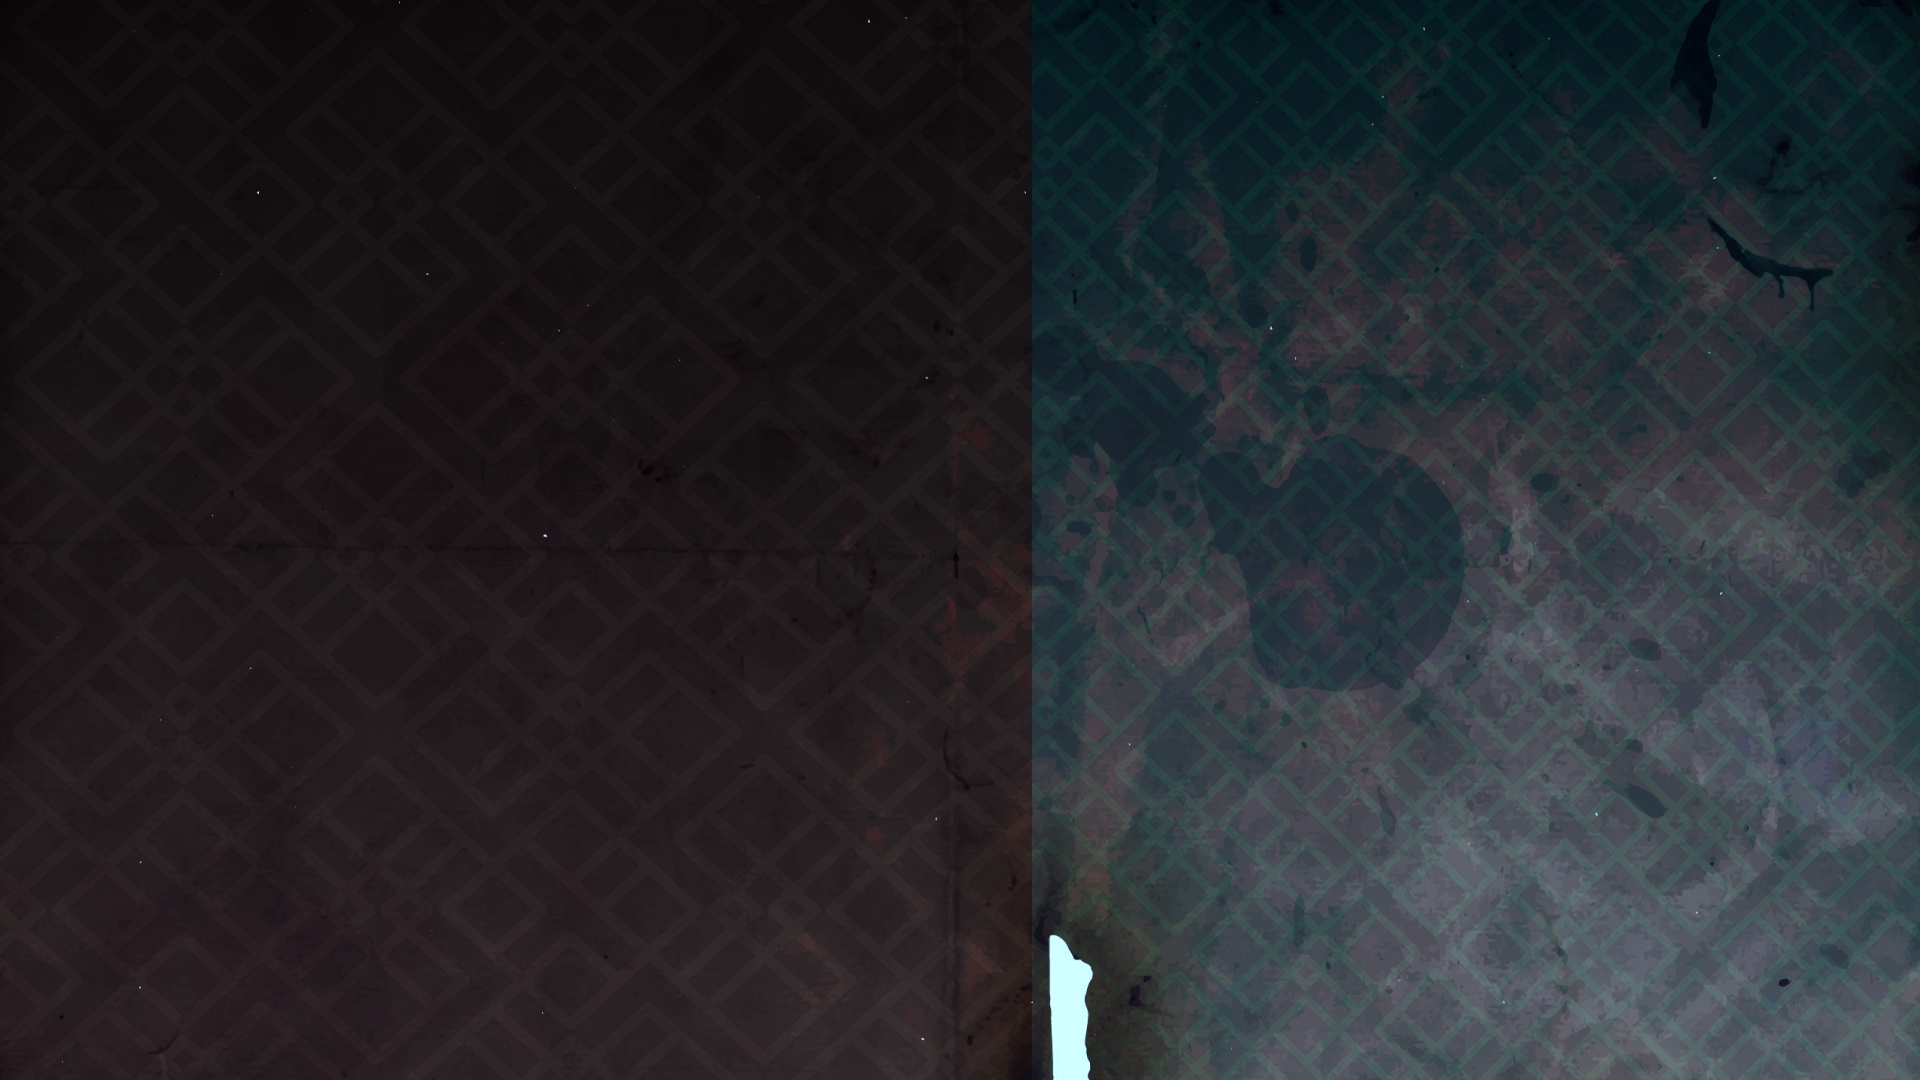
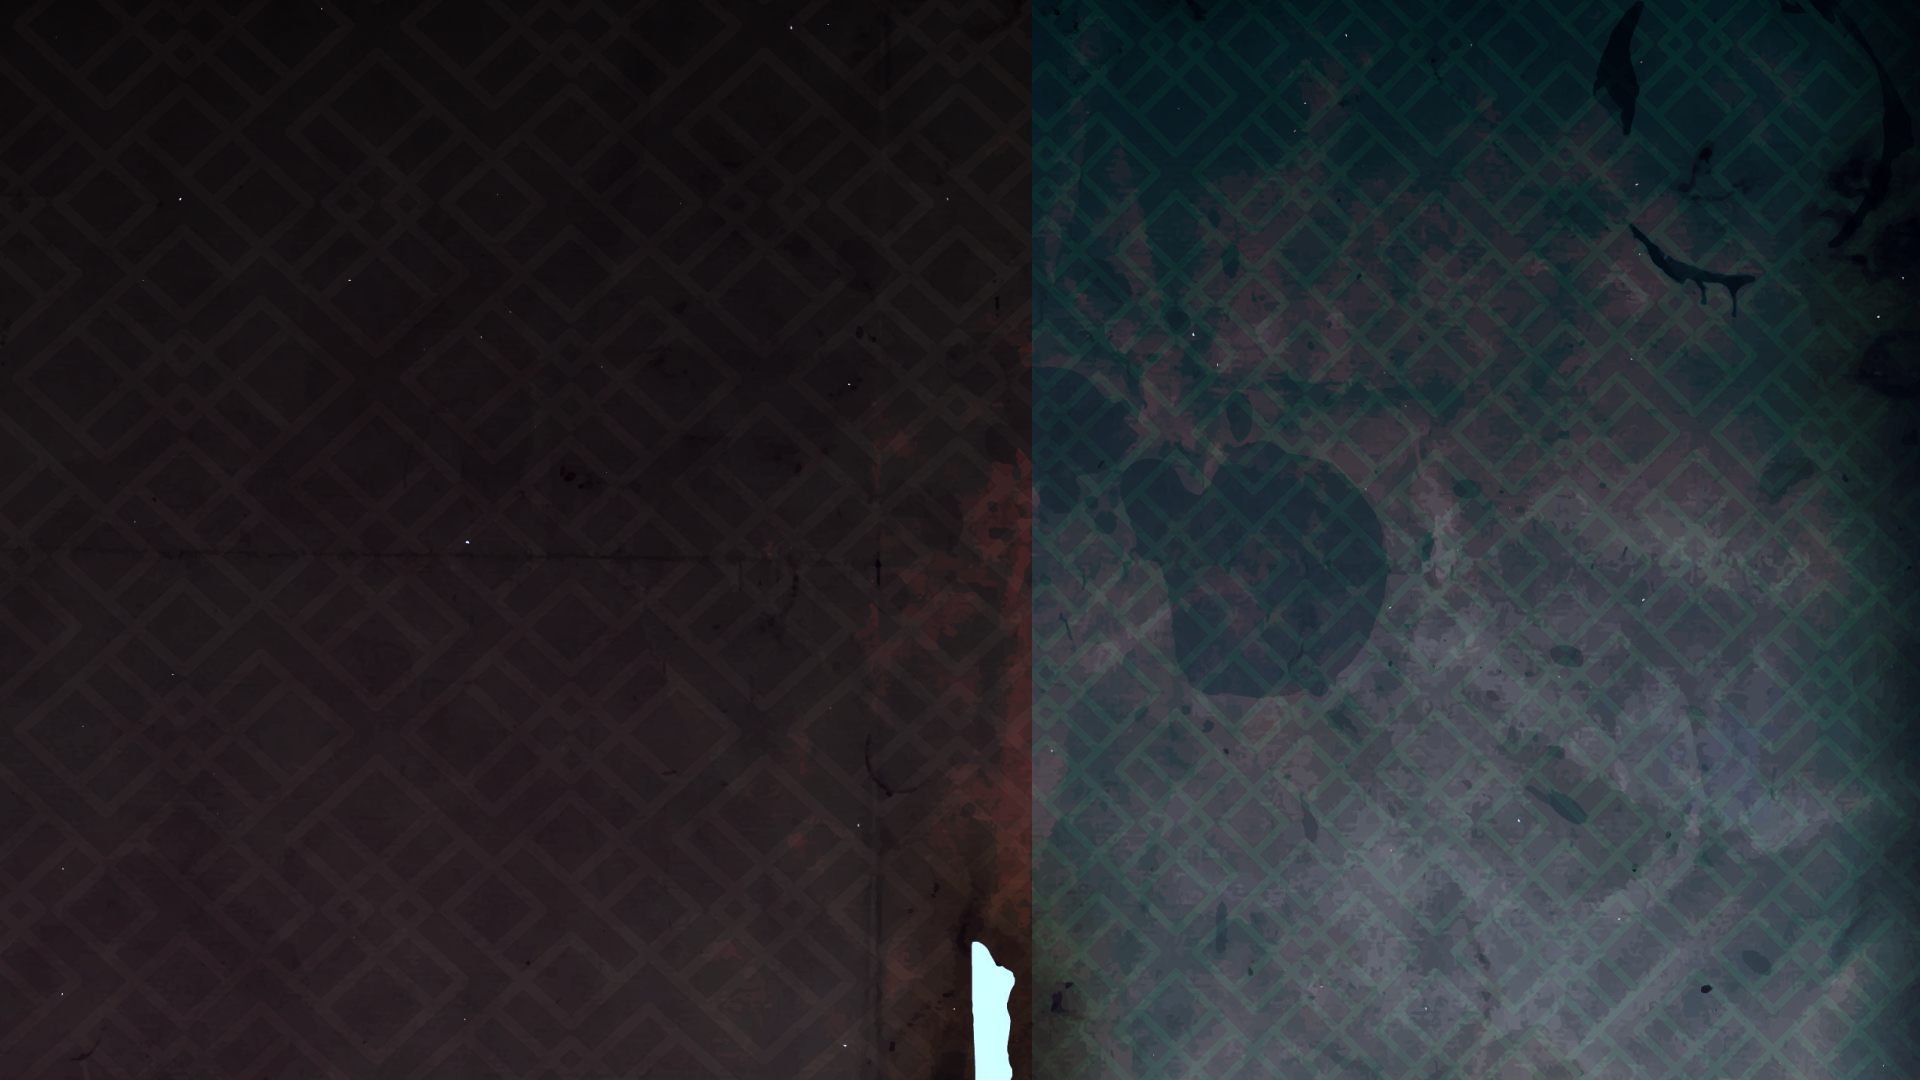
체크박스 효과음 추가 스토리7 배경 수정

diff --git a/UNIJAMMAIN/Assets/Scripts/UI/PopUp/StageSceneUI.cs b/UNIJAMMAIN/Assets/Scripts/UI/PopUp/StageSceneUI.cs
@@ -419,7 +419,9 @@ public class StageSceneUI : UI_Popup
     private bool practiveModeButtonisClicked = false;
     private void PracticeModeButtonClicked(PointerEventData eventData)
     {
-        if(practiveModeButtonisClicked==false)
+        Managers.Sound.Play("SFX/UI/GoToNowhere_V1", Define.Sound.SFX);
+
+        if (practiveModeButtonisClicked==false)
         {
             IngameData.boolPracticeMode = true;
             practiveModeButtonisClicked = true;
